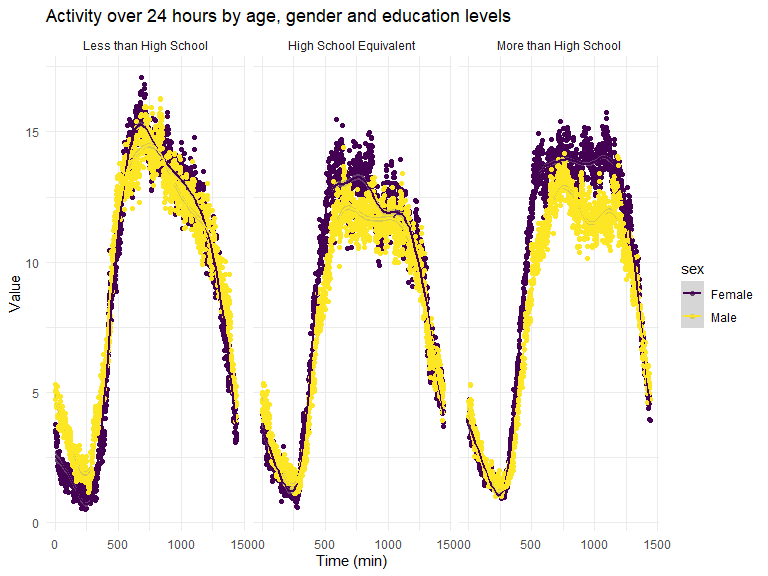
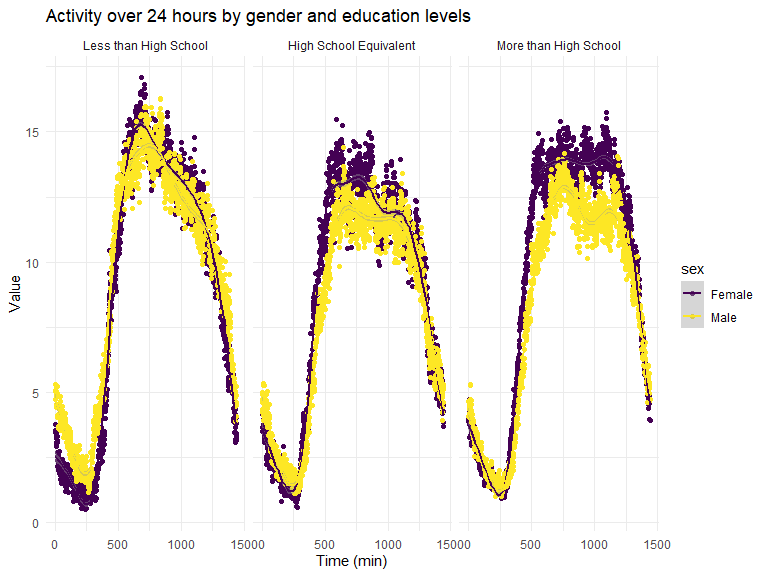
Problem 3: Three panel plot showing 24 hour activity + comments

Changed region(s): [[0.3125, 0.0, 0.6562, 0.0625]]

diff --git a/p8105_hw3.md b/p8105_hw3.md
@@ -385,7 +385,7 @@ three_panel_plot =
   geom_smooth() +
   facet_grid(. ~ education) +
   labs(x = "Time (min)", y = "Value") +
-  ggtitle("Activity over 24 hours by age, gender and education levels") +
+  ggtitle("Activity over 24 hours by gender and education levels") +
   theme_minimal()
 ```
 
@@ -399,3 +399,9 @@ three_panel_plot
     ## `geom_smooth()` using method = 'gam' and formula = 'y ~ s(x, bs = "cs")'
 
 <img src="p8105_hw3_files/figure-gfm/unnamed-chunk-15-1.png" width="90%" />
+
+Observations: The distribution of MIMS is similar among males and
+females. Overall the “less than high school education” category has the
+highest mean value of MIMS. Male have a lower value of MIMS than female
+across all education levels. MIMS values start decreasing steadily after
+approx 1200min across all education levels and gender.
